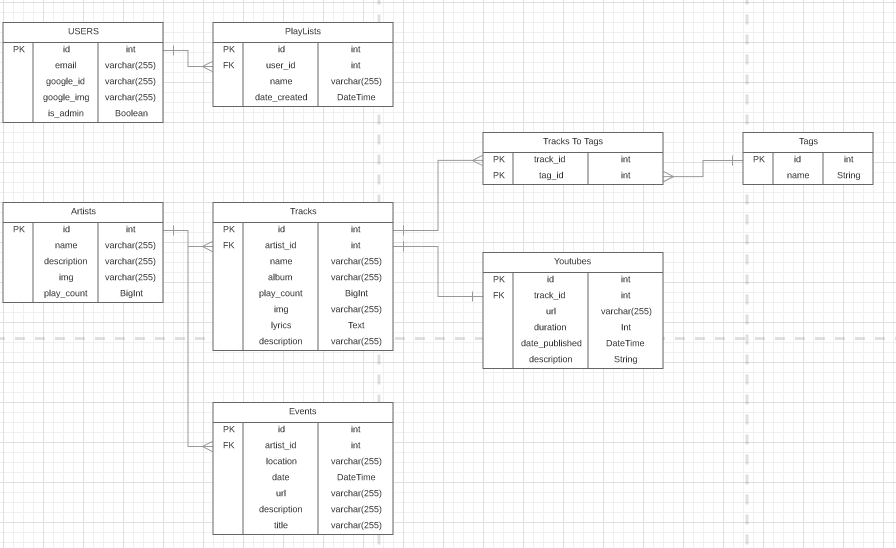
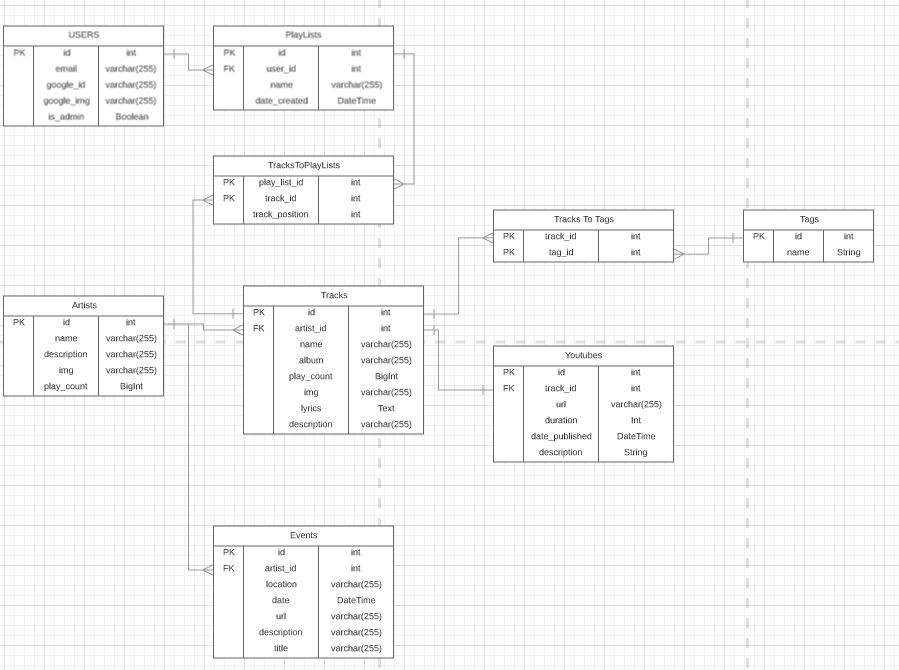
Added new Table to DB + new ERD picture

diff --git a/db/entities/entities.py b/db/entities/entities.py
@@ -68,6 +68,14 @@ class TrackToTag(AbstractTable):
         self.tag_id = tag_id
 
 
+class TrackToPlayList(AbstractTable):
+    table_name = 'tracks_to_play_lists'
+
+    def __init__(self, play_list_id, track_id):
+        self.play_list_id = play_list_id
+        self.track_id = track_id
+
+
 class Youtube(AbstractTable):
     table_name = 'youtubes'
 
